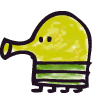
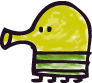
create images.py and add doodle animation

diff --git a/sprites/player.py b/sprites/player.py
@@ -1,13 +1,9 @@
 import pygame
+import os
 
 from settings import *
 
-doodle_right_img = pygame.transform.scale(
-  pygame.image.load(
-    os.path.join(img_folder, 'doodle_right.png')
-    ), 
-  (int(WIDTH/6), int(HEIGHT/12.5))
-  )
+from img.images import *
 
 class Player(pygame.sprite.Sprite):
   def __init__(self):
@@ -23,15 +19,36 @@ class Player(pygame.sprite.Sprite):
     self.rect.centerx = WIDTH / 2
     self.rect.bottom = HEIGHT
     
+    self.default_speed_x = 8;
     self.speed_x = 0;
+    self.is_right = True
     
-    self.max_speed_y = 10
+    self.default_speed_y = 10
     self.speed_y = 10
-    self.gravity = ((3*self.height - self.max_speed_y*FPS/2)*2)/((FPS/2)**2)
+    self.gravity = ((3*self.height - self.default_speed_y*FPS/2)*2)/((FPS/2)**2)
+    self.is_squezing = False
   
   def update(self):
     self.move_x()
     self.jump()
+  
+  def start_move_x(self, speed):
+    self.speed_x = speed
+    
+    if self.is_squezing:
+      if speed > 0:
+        self.image = doodle_squeeze_right_img
+        self.is_right = True
+      elif speed < 0:
+        self.image = doodle_squeeze_left_img
+        self.is_right = False
+    else:
+      if speed < 0:
+        self.image = doodle_left_img
+        self.is_right = False
+      elif speed > 0:
+        self.image = doodle_right_img
+        self.is_right = True
   
   def move_x(self):
     self.rect.x += self.speed_x
@@ -41,11 +58,31 @@ class Player(pygame.sprite.Sprite):
     
     if self.rect.left < (-self.width*3/4) :
       self.rect.left = WIDTH - self.width/4
+
+  def start_jump(self):
+    self.speed_y = self.default_speed_y
+
+    self.is_squezing = True
+    
+    if self.is_right:
+      self.image = doodle_squeeze_right_img
+    else:
+      self.image = doodle_squeeze_left_img
+    
+    pygame.time.set_timer(JUMPEVENT, 200, True)
+  
+  def un_squeeze(self):
+    self.is_squezing = False
+    
+    if self.is_right:
+      self.image = doodle_right_img
+    else:
+      self.image = doodle_left_img
   
   def jump(self): 
     self.rect.bottom -= self.speed_y
     self.speed_y = self.speed_y + self.gravity
     
     if self.rect.bottom >= HEIGHT: 
-      self.speed_y = self.max_speed_y
+      self.start_jump()
   

diff --git a/main.py b/main.py
@@ -3,9 +3,9 @@ import os
 
 from settings import *
 
-from sprites.player import Player
+from img.images import *
 
-bg = pygame.image.load(os.path.join(img_folder, 'background.png'))
+from sprites.player import Player
 
 pygame.init()
 pygame.mixer.init()
@@ -25,16 +25,19 @@ while running:
   for event in pygame.event.get():
     if event.type == pygame.QUIT:
       running = False
-      
-    if event.type == pygame.KEYDOWN:
-      if event.key == pygame.K_LEFT:
-        player.speed_x = -8
-      if event.key == pygame.K_RIGHT:
-        player.speed_x = 8
     
     if event.type == pygame.KEYUP:
       if event.key == pygame.K_LEFT or event.key == pygame.K_RIGHT:
-        player.speed_x = 0
+        player.start_move_x(0)
+      
+    if event.type == pygame.KEYDOWN:
+      if event.key == pygame.K_LEFT:
+        player.start_move_x(-player.default_speed_x)
+      if event.key == pygame.K_RIGHT:
+        player.start_move_x(player.default_speed_x)
+    
+    if event.type == JUMPEVENT:
+      player.un_squeeze()
   
   
   all_sprites.update()

diff --git a/img/images.py b/img/images.py
@@ -1,0 +1,34 @@
+import pygame
+import os
+
+from settings import *
+
+doodle_right_img = pygame.transform.scale(
+  pygame.image.load(
+    os.path.join(img_folder, 'doodle_right.png')
+    ), 
+  (int(WIDTH/6), int(WIDTH/6/744*670))
+  )
+
+doodle_left_img = pygame.transform.scale(
+  pygame.image.load(
+    os.path.join(img_folder, 'doodle_left.png')
+    ), 
+  (int(WIDTH/6), int(WIDTH/6/744*670))
+  )
+
+doodle_squeeze_right_img = pygame.transform.scale(
+  pygame.image.load(
+    os.path.join(img_folder, 'doodle_squeeze_right.png')
+    ), 
+  (int(WIDTH/6), int(WIDTH/6/92*83))
+  )
+
+doodle_squeeze_left_img = pygame.transform.scale(
+  pygame.image.load(
+    os.path.join(img_folder, 'doodle_squeeze_left.png')
+    ), 
+  (int(WIDTH/6), int(WIDTH/6/92*83))
+  )
+
+bg = pygame.image.load(os.path.join(img_folder, 'background.png'))

diff --git a/settings.py b/settings.py
@@ -1,3 +1,4 @@
+import pygame
 import os
 
 WIDTH = 414
@@ -6,3 +7,5 @@ FPS = 60
 
 game_folder = os.path.dirname(__file__)
 img_folder = os.path.join(game_folder, 'img')
+
+JUMPEVENT = pygame.USEREVENT + 1
